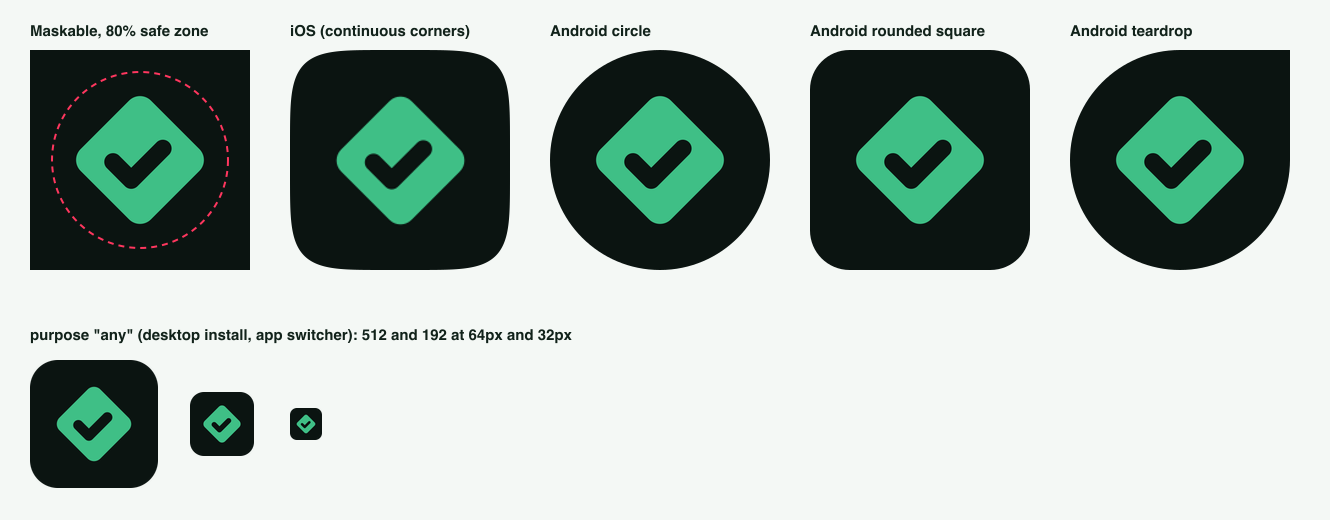
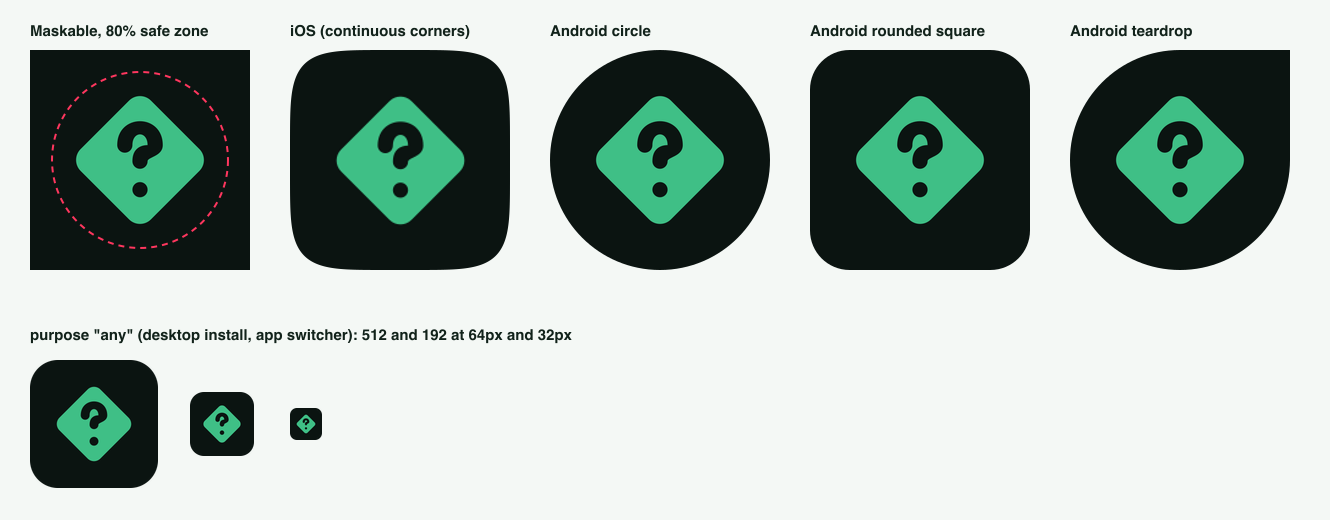
feat(app): put the question your agent is asking inside the Decisions mark
The check read as approved or done, the state after the interaction, and
a fork cut into the diamond read as a back arrow at small sizes. A question
mark in the decision node says the mark's actual job: an agent is waiting
on you.

- One evenodd path with the question mark and its dot as true holes, scaled
  and lifted so the dot clears the diamond's narrowing bottom and the hook's
  counter stays open at 16px
- Every PNG and the favicon regenerated from it; previews refreshed
- The preview's notification card shows the service worker's real copy

diff --git a/docs/brand/README.md b/docs/brand/README.md
@@ -1,6 +1,8 @@
 # The Decisions mark
 
-A flowchart decision node, resolved: a rounded diamond with a check cut out of it. It is one colour by construction (the check is a hole in a single `evenodd` path), so the same geometry works as an app icon, an alpha-only notification badge and a `currentColor` glyph.
+A flowchart decision node holding the question your agent is asking: a rounded diamond with a question mark cut out of it. The diamond says "decision", the question mark says "waiting on you", which is the one thing the app ever asks of its user. It is one colour by construction (the question mark is a hole in a single `evenodd` path), so the same geometry works as an app icon, an alpha-only notification badge and a `currentColor` glyph.
+
+A check was tried first and dropped: it reads as "approved" or "done", the state after the interaction. A fork cut into the diamond read as a back arrow at small sizes.
 
 ## Source
 
